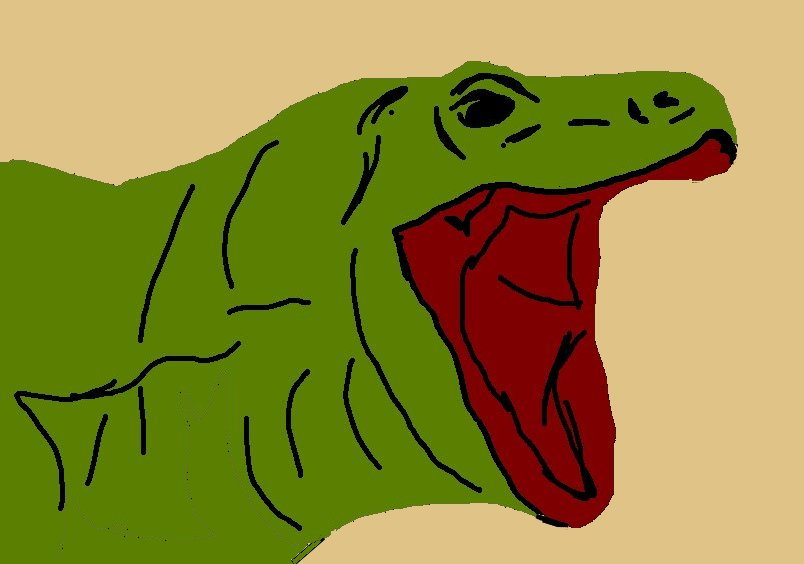
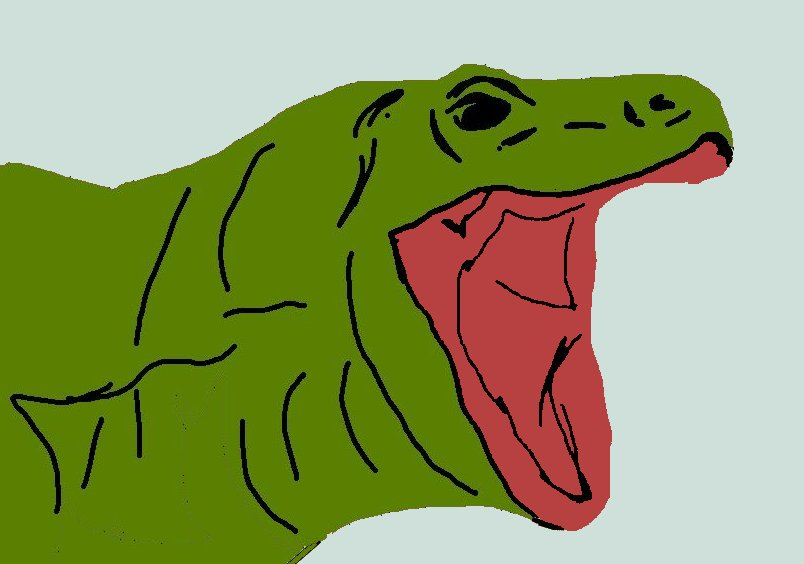
image update

diff --git a/src/main/resources/static/css/home.css b/src/main/resources/static/css/home.css
@@ -1,5 +1,5 @@
 html, body{
-  background-color:#cfdfda;
+  background-color:#cfdfda !important;
   margin:0px;
   padding:0px;
 }
